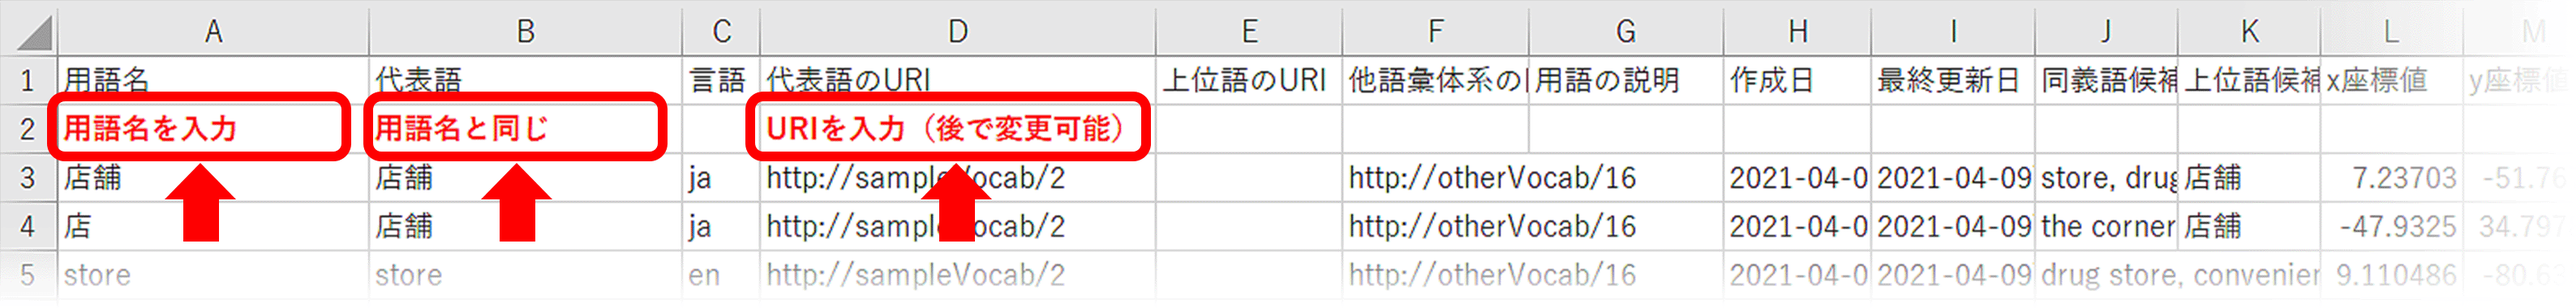
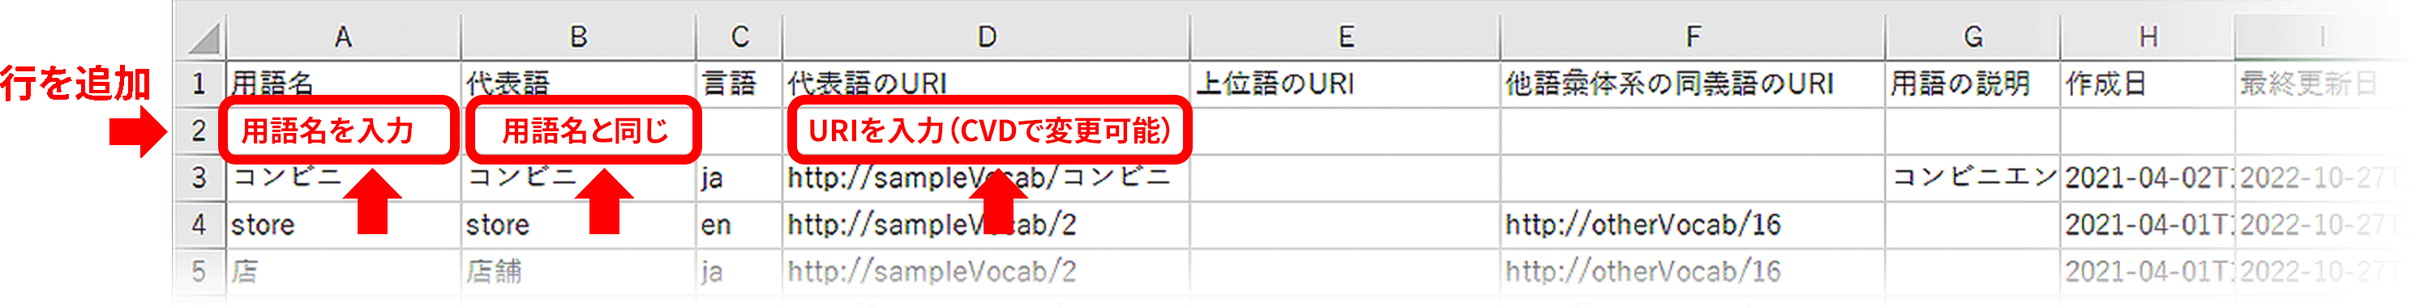
help update for other vocs

diff --git a/docs/help.html b/docs/help.html
@@ -157,7 +157,7 @@
     <h2>用語の追加・削除の手順</h2>
     <ol class="Emp Descr">
       <li id="process1">編集中の語彙を編集用語彙ファイル（CSVファイル）に書き出します。<br><span class="descr">編集用語彙ファイルを書き出す手順は、このヘルプの<a href="#Section05">ファイルの書き出し</a>を参照してください。</span><img src="images/help_illst9-1.png"></li>
-      <li id="process2">書き出された編集用語彙ファイルを編集します。<br><span class="descr">書き出されたCSVファイルで、用語を追加する場合は<em>行を追加</em>します。<br>（削除する場合は削除したい<em>用語の行を削除</em>します）<br>用語を最小限の入力で追加するには、A列・B列・D列を設定すれば追加することができます。（A列以外はCVDで変更が可能です）</span><img src="images/help_illst9-2.png"></li>
+      <li id="process2">書き出された編集用語彙ファイルを編集します。<br><span class="descr">書き出されたCSVファイルで、用語を追加する場合は<em>行を追加</em>します。<br>（削除する場合は削除したい<em>用語の行を削除</em>します）<br>用語を最小限の入力で追加するには、「用語名」列・「代表語」列・「代表語のURI」列を設定すれば追加することができます。（「用語名」列以外はCVDで変更が可能です）</span><img src="images/help_illst9-2.png"></li>
       <li id="process3">編集した編集用語彙ファイルをCVDに読み込みます。<br><span class="descr">ファイルの読み込み手順は、このヘルプの<a href="#Section04">ファイルの読み込み</a>を参照してください。</span></li>
     </ol>
   </div>
@@ -166,11 +166,11 @@
     <h1>他語彙体系の同義語の追加と削除</h1>
     <p class="Emp">CVDを使用して、新規に他語彙体系の同義語のURIを用語に追加したり削除したりすることはできません。</p>
     <p>他語彙体系の同義語を用語に追加または削除する場合は、編集中の語彙をCSVファイルに書き出して、CSVファイルを編集してください。</p>
-    <h2>用語の追加・削除の手順</h2>
+    <h2>他語彙体系の同義語のURIの追加・削除の手順</h2>
     <ol class="Emp Descr">
-      <li id="process1">編集中の語彙を編集用語彙ファイル（CSVファイル）に書き出します。<br><span class="descr">編集用語彙ファイルを書き出す手順は、このヘルプの<a href="#Section05">ファイルの書き出し</a>を参照してください。</span><img src="images/help_illst9-1.png"></li>
+      <li id="process1">編集中の語彙を編集用語彙ファイル（CSVファイル）に書き出します。<br><span class="descr">編集用語彙ファイルを書き出す手順は、このヘルプの<a href="#Section05">ファイルの書き出し</a>を参照してください。</span><img src="images/help_illst9-1-2.png"></li>
       <li id="process2">書き出された編集用語彙ファイルを編集します。<br>
-        <span class="descr">書き出されたCSVファイルで、用語に他語彙体系の同義語を追加する場合は「他語彙体系の同義語のURI」列に、その同義語のURIを入力します。<br></li>
+        <span class="descr">書き出されたCSVファイルで、用語に他語彙体系の同義語を追加する場合は「他語彙体系の同義語のURI」列に、その同義語のURIを入力します。</span><img src="images/help_illst9-2-2.png"></li>
       <li id="process3">編集した編集用語彙ファイルをCVDに読み込みます。<br><span class="descr">ファイルの読み込み手順は、このヘルプの<a href="#Section04">ファイルの読み込み</a>を参照してください。</span></li>
     </ol>
   </div>

diff --git a/docs/css/help_style.css b/docs/css/help_style.css
@@ -9,7 +9,7 @@ body, html {font-size: 14px;}
 nav {
     width: 200px;
     background-color: #fff;
-    padding: 1em 0.5em;
+    padding: 1em;
     border: 1px solid #bcbcbc;
     border-radius: 4px;
     text-align: center;
@@ -26,15 +26,19 @@ nav dl {
 }
 nav dl dt{
     font-size: 1.15rem;
-    padding: 0 0.5em;
+    padding: 0;
     margin-top: 1em;
     font-weight: 600;
 }
 nav dl dt:first-child {margin-top: 0;}
 nav dl dd{
     font-size: 1.1rem;
+    line-height: 1.2;
     margin: 0;
-    padding: 0.2em 0.5em 0;
+    margin-left: 1em;
+    margin-top: 0.5em;
+    padding: 0;
+    text-indent: -1em;
 }
 nav dl dd a {
     color: #0082FF;
